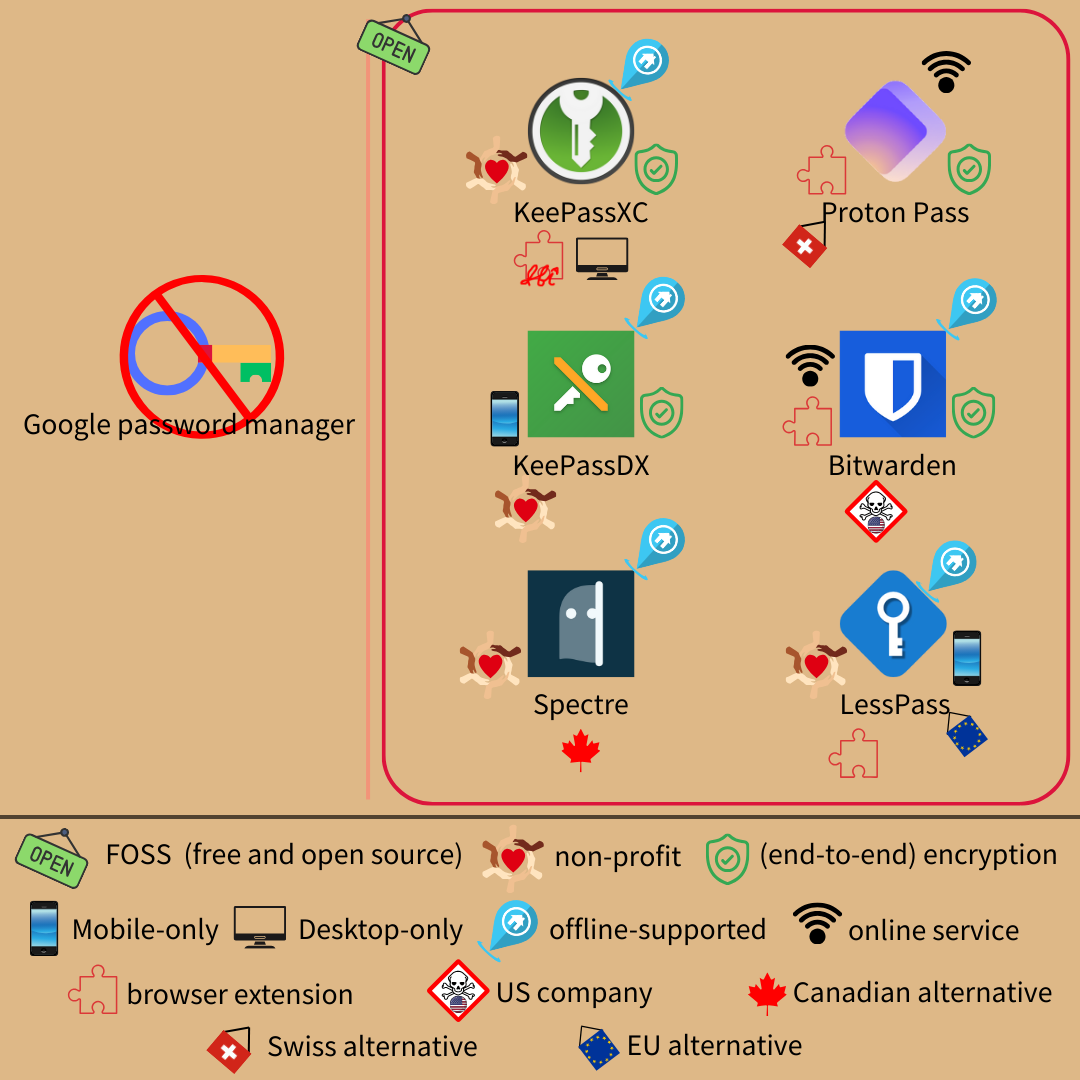
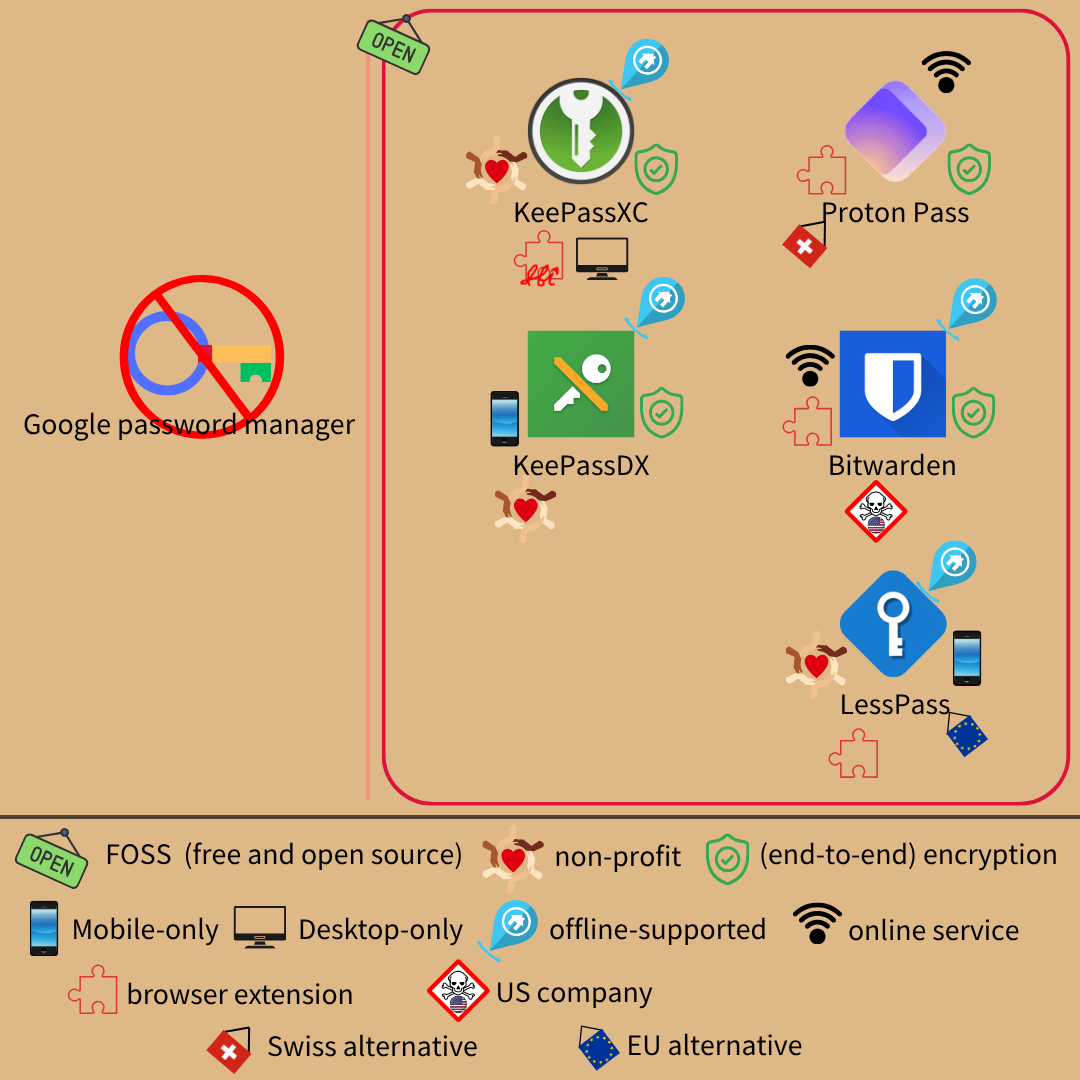
removed spectre from password manager article and image due to its lack of maintenance

Changed region(s): [[0.4278, 0.4583, 0.6417, 0.7028], [0.7028, 0.8861, 0.9778, 0.9472]]

diff --git a/deGoogle-pswd-manager.md b/deGoogle-pswd-manager.md
@@ -205,45 +205,19 @@ Bitwarden 是開源、知名的密碼管理軟體，訂閱制收費
     好處是開源，至少能審核安全性  
     _# 相較之下，Proton 是瑞士公司，不受制於美國法律_  
 
-#### [Spectre](https://spectre.app/)  
-直翻幽靈，嚴格來說不算密碼管理軟體  
+#### [LessPass](https://lesspass.com/)  
+嚴格來說不算密碼管理軟體  
 
 不是密碼管理軟體，放這幹嘛！？  
 
 別急，就像[聯合國秘書長說的](https://www.un.org/sg/en/content/sg/speeches/2023-10-24/secretary-generals-remarks-the-security-council-the-middle-east%C2%A0)，事出必有因 (？)  
-Spectre 是「密碼演算器」，可以做相似的事  
-開發哲學是：「唯一不會被偷、勒索、遺忘的密碼，只有不存在的密碼」  
-> The only password that can’t be lost, stolen, seized, ransomed or left on the bus, is a password that doesn’t exist.  
-
-[原理](https://spectre.app/#algorithm)是透過密碼學[演算法](https://spectre.app/spectre-algorithm.pdf)，「生成」密碼：  
-使用者只需填入姓名 (或暱稱)、固定秘密 (可想成主密碼)  
-演算法會生成一把主鑰，碰到每個網站再依主鑰生成「唯一」、「不可逆推」的密碼  
-如此一來，就算某個網站出事，其他帳號仍非常安全  
+LessPass 是「密碼演算器」，用「生成」取代「儲存」  
+因為唯一不會被偷、勒索、遺忘的密碼，只有不存在的密碼  
+原理是透過主鑰、網址等資訊，演算出唯一、不可逆推的密碼  
+運算離線、且沒把密碼存下來  
 密碼不儲存在任何地方，就無法被偷  
 _# 此做法稱為「無狀態 (Stateless)」密碼管理_  
-
----
-
-講古：  
-比利時裔[加拿大人](https://lhunath.com/)開發，專案[開源](https://gitlab.com/spectre.app/)、支援各大電腦與手機平台  
-_# 作者專攻資安領域，自稱夢想家、理想主義者_  
-原本名為「One Password」，因其只需一支密碼  
-後更名為「Master Password」 (主密碼)，從 App Store 開始上架  
-後來經過重構，程式邏輯優化、介面現代化，擴展到各平台  
-品牌也重塑為 Spectre，至今已有十年歷史  
-
----
-
-缺點：  
-* 使用有些微門檻  
-    * Windows 用戶須先下載 Java  
-    * Mac 套件管理工具 [Homebrew](https://brew.sh/) 似乎不支援了，得由蘋果 App Store 下載  
-* 主程式年久未維護，穩定與安全性堪慮  
-
-
-#### [LessPass](https://lesspass.com/)  
-原理和 Spectre 相似，都用「生成」取代「儲存」密碼  
-一樣是[開源](https://github.com/lesspass/lesspass)、社群專案，支援手機平台、瀏覽器外掛  
+專案[開源](https://github.com/lesspass/lesspass)、社群驅動，支援手機平台、瀏覽器外掛  
 _# Android 版在 [F-Droid](https://f-droid.org/) 也能下載_  
 創建者是法國人 [Guillaume Vincent](https://github.com/guillaumevincent)，紅帽 (Red Hat)公司首席軟體工程師  
 _# 熟悉開源的人鐵定不陌生，此紅帽即為 Linux 發行版那家公司_  
@@ -256,7 +230,6 @@ _# 可離線使用，此處指網頁伺服器_
 * 無桌面程式  
 
 叫 'Less' 有種「少即是多」的意味，沒密碼就不用記密碼、不怕外洩  
-而且還有在積極維護，選 LessPass 比 Spectre 更安全  
 
 ---
 
@@ -270,7 +243,6 @@ _# 可離線使用，此處指網頁伺服器_
 * 已在用 Bitwarden、可能需要中文社群支援 → [Bitwarden](https://bitwarden.com/)  
     _# Bitwarden 在台灣知名度不低，隨便搜都有很多文章_  
 * 喜歡酷玩意 → [LessPass](https://lesspass.com/)  
-    * 有技術能力、願意冒風險 → [Spectre](https://spectre.app/)  
 
 ---
 
